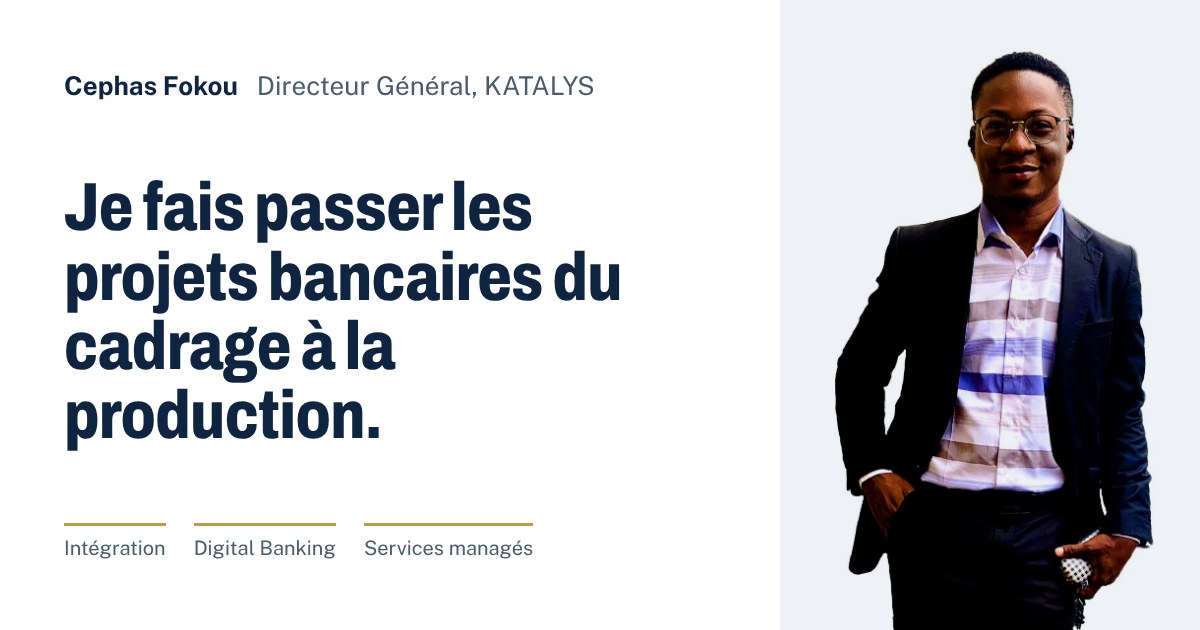
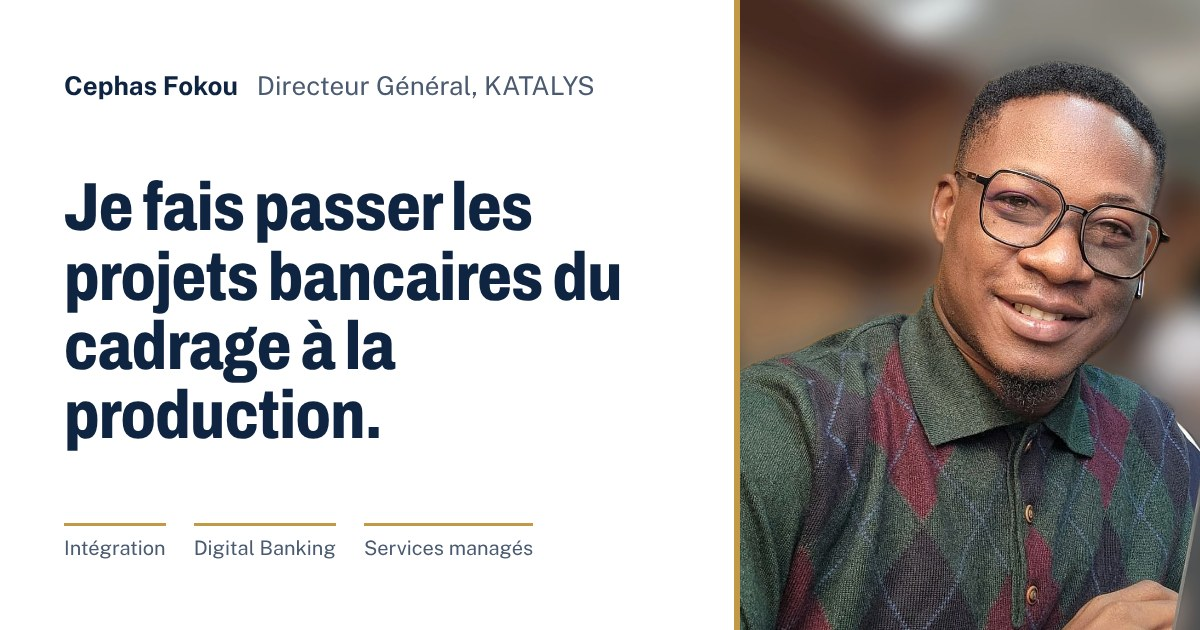
Nouvelle photo de profil retouchée (accueil, À propos, aperçu de partage)
Claude-Session: https://claude.ai/code/session_01BM12gdtAXcWGzkQSx2Grwg

diff --git a/src/styles.css b/src/styles.css
@@ -434,7 +434,7 @@ main:focus {
 }
 
 .hero__text {
-  padding: clamp(56px, 9vw, 120px) 0 clamp(56px, 8vw, 104px);
+  padding: clamp(56px, 8vw, 104px) 0;
 }
 
 .hero__role {
@@ -468,17 +468,17 @@ main:focus {
 }
 
 .hero__portrait {
-  margin: 0;
-  align-self: end;
-  background: var(--mist);
+  margin: clamp(40px, 6vw, 72px) 0;
+  align-self: center;
+  border-bottom: 4px solid var(--brass);
 }
 
 .hero__portrait img {
   width: 100%;
-  max-height: 640px;
+  aspect-ratio: 4 / 5;
+  max-height: 600px;
   object-fit: cover;
-  object-position: top center;
-  mix-blend-mode: multiply;
+  object-position: center top;
 }
 
 @media (max-width: 900px) {
@@ -499,8 +499,8 @@ main:focus {
     max-width: 420px;
   }
 
-  .hero__portrait img {
-    max-height: 460px;
+  .hero__portrait {
+    margin: 0 0 48px;
   }
 }
 
@@ -1030,7 +1030,6 @@ main:focus {
   aspect-ratio: 4 / 5;
   object-fit: cover;
   object-position: top;
-  mix-blend-mode: multiply;
 }
 
 .about__side .h3 {

diff --git a/src/pages/home/index.js b/src/pages/home/index.js
@@ -27,7 +27,7 @@ export const Home = () => {
             </div>
           </div>
           <figure className="hero__portrait">
-            <img src={hero.portrait} alt={t("home.portraitAlt")} width="869" height="1200" />
+            <img src={hero.portrait} alt={t("home.portraitAlt")} width="920" height="1150" />
           </figure>
         </div>
       </section>
